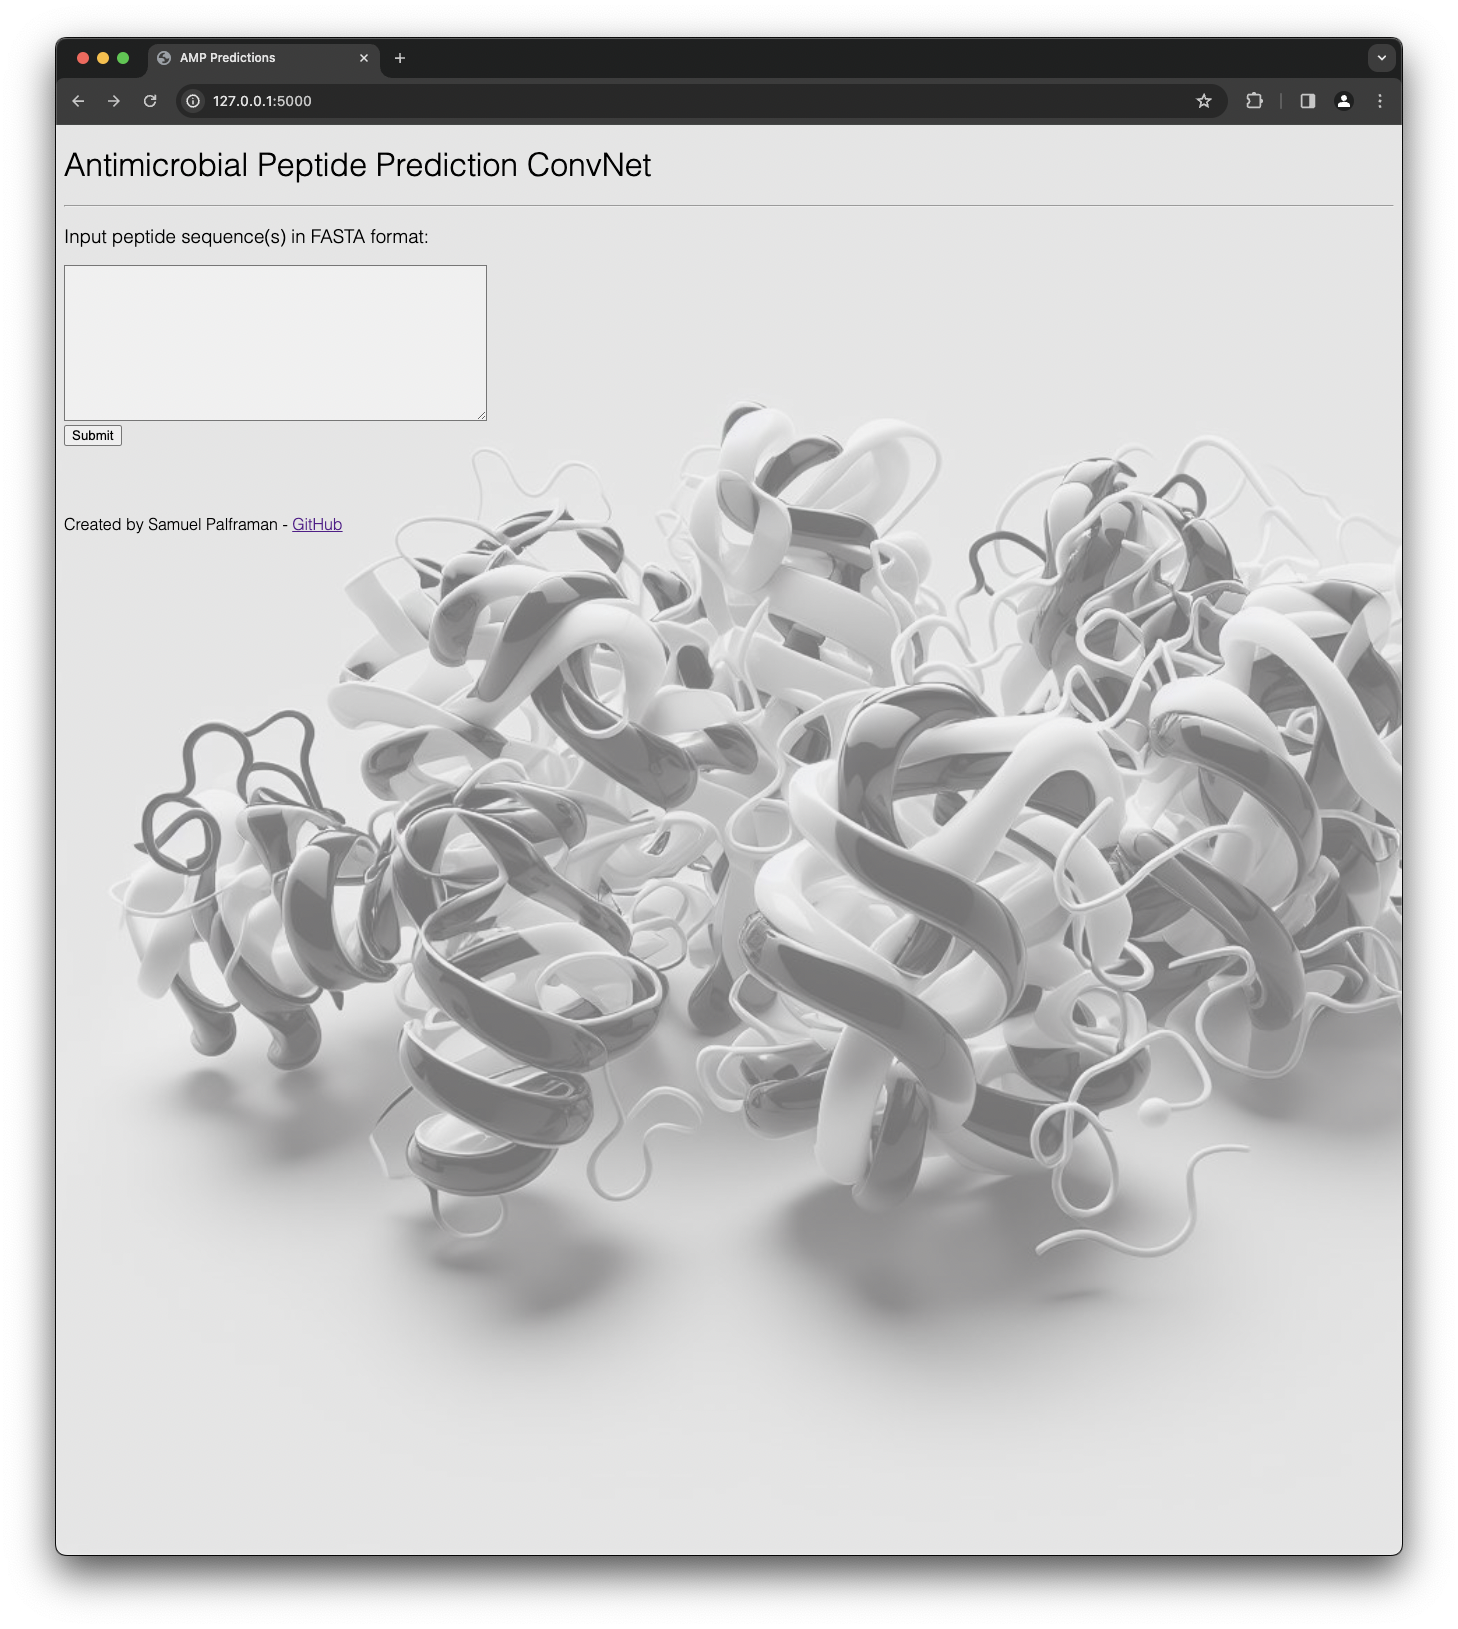
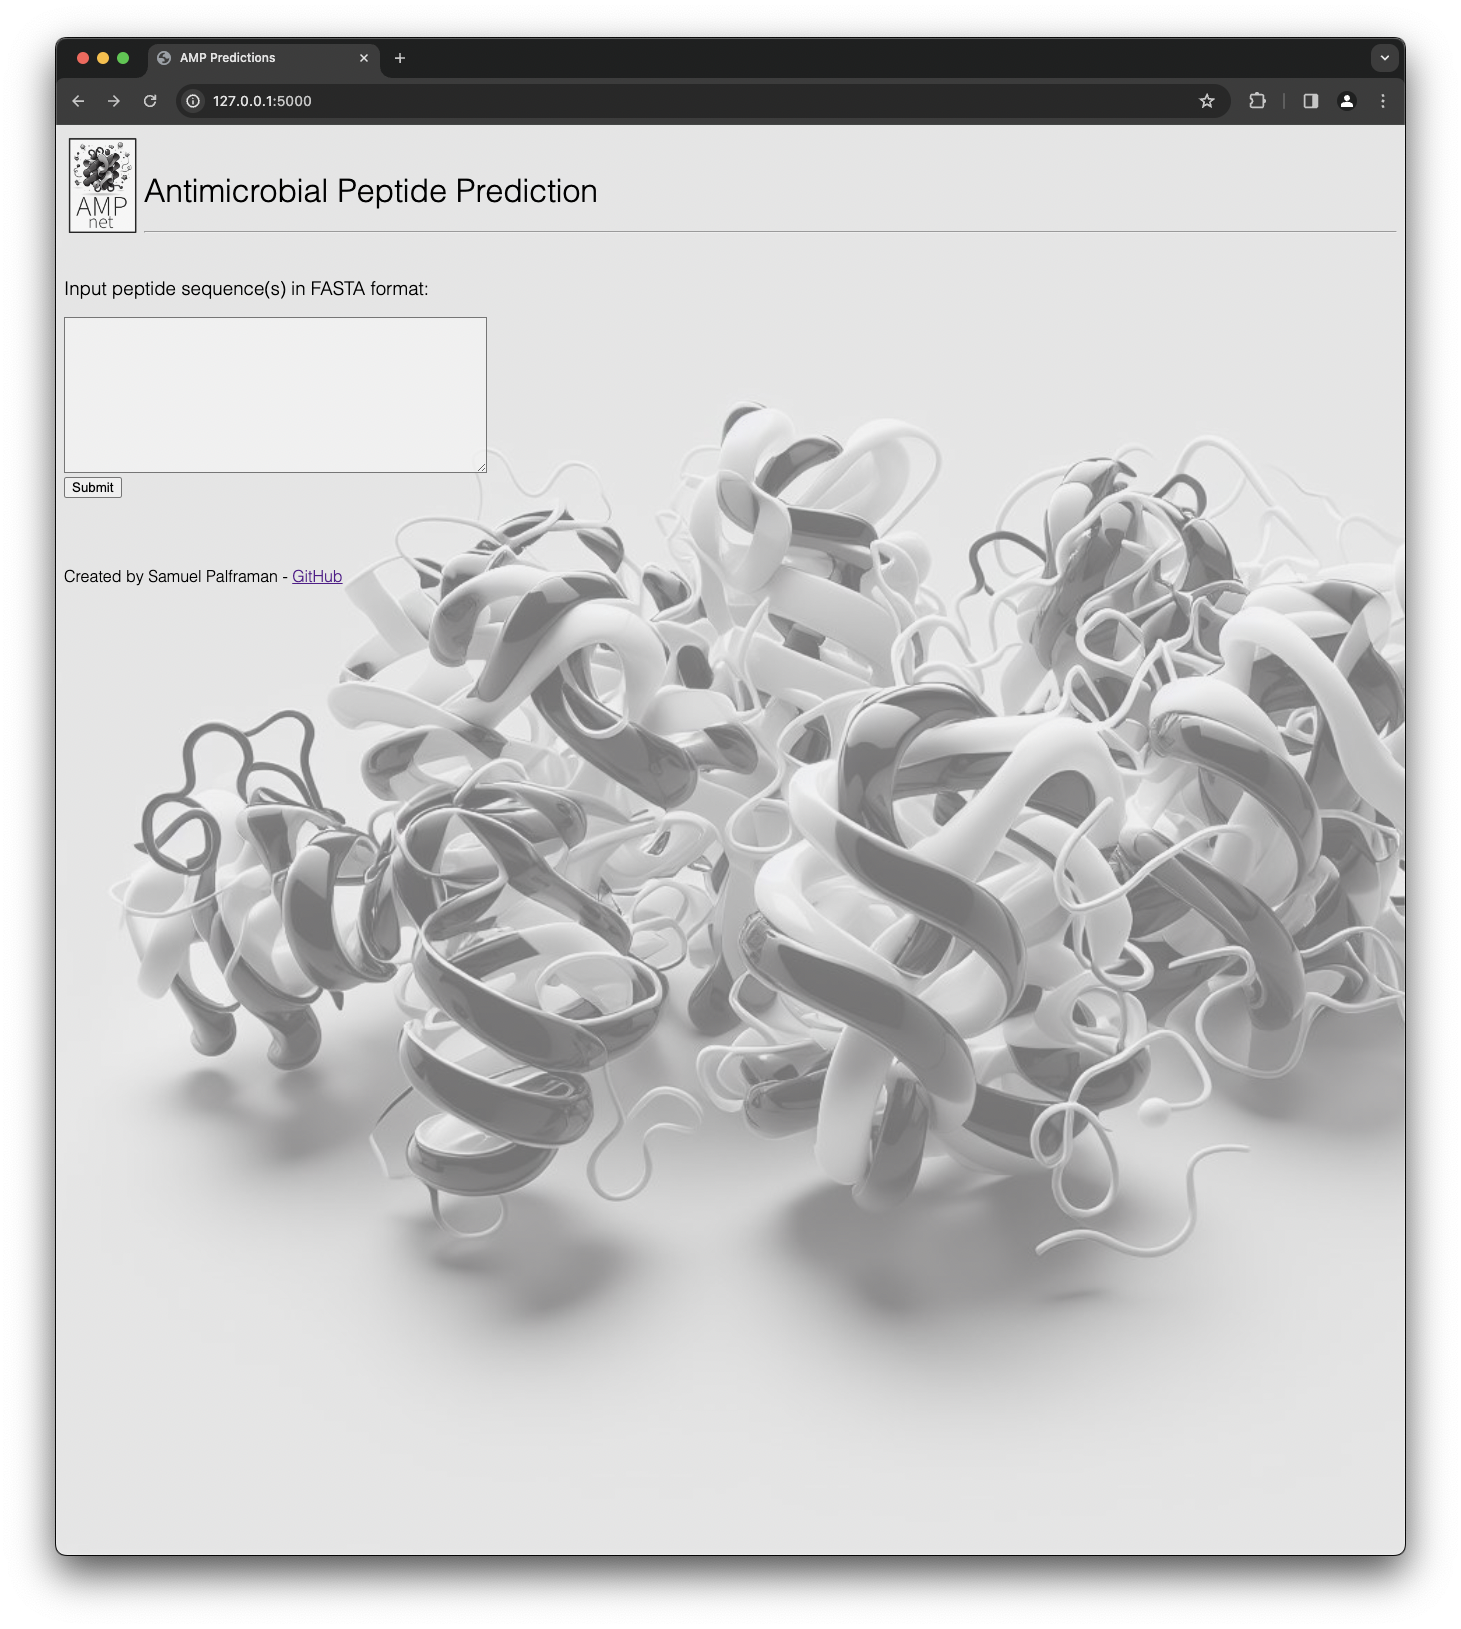
update project

diff --git a/templates/error.html b/templates/error.html
@@ -5,10 +5,34 @@
     <link rel="stylesheet" type="text/css" href="static/css/style.css">
 </head>
 <body>
-    <h1>An error occurred</h1>
+    <a href="/">
+        <div class="logo"></div>
+    </a>
+    <br>
+    <h1>AMPnet: An error occurred</h1>
     <hr>
     <p>{{ error_message }}</p>
     <p>Example:</p>
-    <div id="myBox">>vacAl00p<br>PEGGYKDKPNNTPSQSGAKNDKQESSQNNSNTQVINPP</div>
+    <div id="myBox">
+        >vacAl00p<br>PEGGYKDKPNNTPSQSGAKNDKQESSQNNSNTQVINPP<br>
+        >teAMP0021<br>ICLLVQARVRPRVC<br>
+        >teAMP0024<br>FLPLIAGVAANFLPKIFCLISKKC<br>
+        >teNEGATIVE0010<br>QQWPRDPAPIPP<br>
+        >teNEGATIVE0011<br>MQYISLNTTIITTTETTGYGAG<br>
+        >teAMP0025<br>DNGYLLDKYTGCKVWCVINNESCNSECKIRGGYYGYCYFWKLACFCQGARKSELWNYNTNKCNGKL<br>
+        >teNEGATIVE0007<br>AEVFKSEEGSVDFYGQLRPA<br>
+        >teAMP0028<br>ILGPVLGLVGNALGGLIKEI<br>
+        >teNEGATIVE0001<br>ADDKCEDSLRREIACTKCRDRVRTDDYFYECCTSESTFKKCQTMLHQ<br>
+        >teNEGATIVE0002<br>MDIITLGWVGVLSVFTLSIAFVVWGRHGM<br>
+        >teAMP0029<br>RRPPGWSPLR<br>
+        >teAMP0031<br>RFGRFLRKIRRFRPKVTITIQGSARFG<br>
+        >teAMP0032<br>LVPFIGRTLGGLLARF<br>
+        >teNEGATIVE0006<br>MTASMRLK<br>
+        >teNEGATIVE0012<br>AACYSSDCRVKCRAMGFSSGKCIDSKCKCYK<br>
+        >teAMP0072<br>EWKLPDLIINHITLTRRNCNKYRCG<br>
+        >teAMP0082<br>GFFAFIPKIISSPLFKTLLSAVGSALSSSGEQE<br>
+        >teNEGATIVE0013<br>GKITFYEDRNFQGRCYECSTDCPDLSPYFS<br>
+        >teNEGATIVE0004<br>AVKCIGWQETCNGKLPCCDGCVMCECNIMGQNCRCNHPKATSECES<br>
+    </div>
 </body>
 </html>

diff --git a/static/css/style.css b/static/css/style.css
@@ -12,7 +12,7 @@ body {
 /* Style heading */
 h1 {
     font-weight: 300;
-    text-align: left; 
+    text-align: left;
 }
 
 /* Style form container */
@@ -89,9 +89,20 @@ table.dataframe th {
 }
 
 #myBox {
-    width: 50%;
+    width:55%;
     background-color: #f2f2f2;
     border: 1px solid #ccc;
     padding: 10px;
     font-size: 16px;
   }
+
+  .logo {
+    width: 75px; /* Set the width of the div */
+    height: 100px; /* Set the height of the div */
+    background-image: url('ampnet_logo.png');
+    background-size: 100% 100%; /* This will scale the image to fit the div */
+    /*display: inline-block;*/
+    vertical-align: middle;
+    margin-right: 5px;
+    float: left;
+}

diff --git a/templates/index.html b/templates/index.html
@@ -7,8 +7,14 @@
     </script>
 </head>
 <body>
-    <h1>Antimicrobial Peptide Prediction ConvNet</h1>
+    <a href="/">
+        <div class="logo"></div>
+    </a>
+    <br>
+    <h1>Antimicrobial Peptide Prediction</h1>
+    <!--<h1>Antimicrobial Peptide Prediction ConvNet</h1>-->
     <hr>
+    <br>
     <form method="POST" action="/process_text">
         <h3>Input peptide sequence(s) in FASTA format:</h3>
         <textarea name="text_input" id="text_input" class="text_box" rows="10" cols="50"></textarea>

diff --git a/templates/result.html b/templates/result.html
@@ -5,7 +5,11 @@
     <link rel="stylesheet" type="text/css" href="static/css/style.css">
 </head>
 <body>
-    <h1>AMP Prediction Results</h1><hr>
+    <a href="/">
+        <div class="logo"></div>
+    </a>
+    <br>
+    <h1>AMPnet Prediction Results</h1><hr>
     <div class="table">
     <h3>Generated using a Deep Convolutional Neural Network with TensorFlow and Keras.</h3>
         <ul>

diff --git a/app.py b/app.py
@@ -8,7 +8,7 @@ import numpy as np
 import pandas as pd
 import tensorflow as tf
 import plotly.io as pio
-from Python import AMP_ConvNet_functions
+from Python import AMPnet_functions
 
 # Set Display Options to prevent Exponential Notation
 pd.set_option('display.float_format', '{:.2f}'.format)
@@ -37,25 +37,25 @@ def process_text():
         user_text = request.form['text_input']
         
         # Process FASTA input from User into Pandas DataFrame
-        user_text_df = AMP_ConvNet_functions.process_fasta(user_text)
+        user_text_df = AMPnet_functions.process_fasta(user_text)
 
         # Calculate Molecular Weight of Peptides
-        user_text_df['MW (kDa)'] = AMP_ConvNet_functions.calc_molecular_weight(user_text_df['Sequence'])
+        user_text_df['MW (kDa)'] = AMPnet_functions.calc_molecular_weight(user_text_df['Sequence'])
 
         # Calculate Isoelectric Point (pI) of Peptides
-        user_text_df['Isoelectric Point (pI)'] = AMP_ConvNet_functions.calculate_pI(user_text_df['Sequence'])
+        user_text_df['Isoelectric Point (pI)'] = AMPnet_functions.calculate_pI(user_text_df['Sequence'])
         
         # Calculate Hydrophobicity (Kyte-Doolittle Scores) for each Amino Acid
-        user_text_df['Hydrophobicity'] = user_text_df['Sequence'].apply(AMP_ConvNet_functions.list_hydrophobicities)
+        user_text_df['Hydrophobicity'] = user_text_df['Sequence'].apply(AMPnet_functions.list_hydrophobicities)
         
         # Creae One-Hot Encoded Sequence Column
-        user_text_df['One_Hot_Encoded'] = user_text_df['Sequence'].apply(AMP_ConvNet_functions.one_hot_encode)
+        user_text_df['One_Hot_Encoded'] = user_text_df['Sequence'].apply(AMPnet_functions.one_hot_encode)
         
         # Set Max Amino Acid Sequence Length
         max_length = 198
 
         # Pad 'One_Hot_Encoded' Column so that all Matrices are the same size (198 x 20)
-        user_text_df['Padded_One_Hot'] = user_text_df['One_Hot_Encoded'].apply(lambda arr_list: AMP_ConvNet_functions.pad_arrays(arr_list, max_length))
+        user_text_df['Padded_One_Hot'] = user_text_df['One_Hot_Encoded'].apply(lambda arr_list: AMPnet_functions.pad_arrays(arr_list, max_length))
 
         # Take Values for TensorFlow CNN Model
         user_text_sequences = user_text_df['Padded_One_Hot'].values
@@ -84,7 +84,7 @@ def process_text():
         print(results_df)
         
         # Plot Bubble Chart
-        bubble_chart = AMP_ConvNet_functions.create_bubble_chart(results_df)
+        bubble_chart = AMPnet_functions.create_bubble_chart(results_df)
         
         # Create Plotly Bubble Chart for HTML
         chart_div = pio.to_html(bubble_chart, full_html=False)

diff --git a/README.md b/README.md
@@ -1,10 +1,10 @@
-# Antimicrobial Peptide Prediction
+# AMPnet: Antimicrobial Peptide Prediction
 TensorFlow and Keras Deep Convolutional Neural Network (ConvNet) that identifies Antimicrobial Peptides (AMPs) based on Amino Acid Sequences.
 
 Created and submitted as final project for Monash University Data Analytics Boot Camp (November 2023). 
 
 
-![amp_cnn](Resources/Images/convnet_banner.jpg)
+![amp_cnn](Resources/Images/convnet_banner_logo.png)
 
 ## Preface
 
@@ -28,28 +28,28 @@ This project uses a Deep Convolutional Neural Network Model to classify peptides
 
 1. Download Repository.
 2. Using Mac/Linux Terminal or Windows Command Prompt:
-   - Change working directory to newly dow Repository folder (`antimicrobial-neural-network-main`.
+   - Change working directory to newly downloaded Repository folder (`antimicrobial-neural-network-main`).
    - Run `app.py` file.
 3. Open Browser and navigate to: `http://127.0.0.1:5000/`
 4. Input FASTA amino acid sequence.
 
 ## General info
 
-### AMP_ConvNet_data_compilation.ipynb
+### AMPnet_data_compilation.ipynb
 
 - Reads in `FASTA` files and converts data to Python `Pandas` DataFrames using `Biopython` library.
 - Creates new `Anti_Microbial` Column for each DataFrame and assigns `1` for AMPs and `0` for Non-AMPs.
-- Concatenates all Training and Test DataFrames into `peptides_df` DataFrame to Train and Test the AMP ConvNet Model.
+- Concatenates all Training and Test DataFrames into `peptides_df` DataFrame to Train and Test the AMPnet Model.
 - Creates Validation DataFrame from separate and independent datasets for an extra Validation step. 
 - Creates new `Sequence_Length` Column and calculates the number of amino acid residues of each peptide.
 - Calculates Kyte-Doolittle scores for each amino acid in each peptide sequence and appends data as new Column (`KD_Scores`) to DataFrame.
 - Exports DataFrames as `CSV` files:
   - `peptides_df` as `peptides.csv` for Training and Testing
-  - `validation_df` as `validation.csv` for additional ConvNet Model Validation.
+  - `validation_df` as `validation.csv` for additional AMPnet Model Validation.
   - `validation_positive.csv` and `validation_negative.csv` files were also generated to facilitate additional Validations.
 
 
-### AMP_ConvNet_deep_learning.ipynb
+### AMPnet_deep_learning.ipynb
 
 - `One-Hot-Encodes` amino acid sequences into 2D Matrix of binary values to facilitate Convolutional Neural Network modelling.
 
@@ -81,7 +81,7 @@ This project uses a Deep Convolutional Neural Network Model to classify peptides
 
 - Test Accuracy: `93.69 %` / Test Loss: `0.18`
 
-### AMP_ConvNet_deep_learning_validation.ipynb
+### AMPnet_deep_learning_validation.ipynb
 
 - Reads in `CSV` files as Pandas DataFrames.
 
@@ -91,7 +91,7 @@ This project uses a Deep Convolutional Neural Network Model to classify peptides
 
 - Converts input data to `Numpy Arrays`.
 
-- Loads Trained ConvNet TensorFlow and Keras Model.
+- Loads Trained AMPnet TensorFlow and Keras Model.
 
 - Makes Predictions on Validation datasets.
 
@@ -101,13 +101,13 @@ This project uses a Deep Convolutional Neural Network Model to classify peptides
 
 - Visualises Validation dataset that contained discrete positive (AMP) and negative (Non-AMP) sequences.
 
-- **Putative and Confirmed AMP / Non-AMPs predicted by AMP ConvNet**:
+- **Putative and Confirmed AMP / Non-AMPs predicted by AMPnet**:
 
   *score > 0.5 = AMP | score < 0.5 = Non-AMP*
   
   ![validation_charts](Resources/Images/validation_5_epochs_&_dropout.png)
 
-### AMP_ConvNet_functions.py
+### AMPnet_functions.py
 
 - Defines **Functions** called in Python Flask file (`app.py`):
   - `process_fasta(user_input)`: parses FASTA Input from user and converts it to Pandas DataFrame.
@@ -145,7 +145,7 @@ This project uses a Deep Convolutional Neural Network Model to classify peptides
 
 - Contains custom formatting for `index.html`, `result.html` and `error.html`.
 
-### AMP_ConvNet_model_summary
+### AMPnet_model_summary
 
 - Summarises model architecture.
 - Details optimisations made to model.
@@ -158,7 +158,7 @@ This project uses a Deep Convolutional Neural Network Model to classify peptides
 
 ### HDF5_files Folder
 
-- Contains the trained `convolutional_nn_1.h5` ConvNet Model File.
+- Contains the trained `convolutional_nn_1.h5` AMPnet Model File.
 
 ### static Folder
 
@@ -199,7 +199,7 @@ Project created and run using:
 ## Code example
 
 ```python
-## Code Snippet from AMP_ConvNet_deep_learning.ipynb
+## Code Snippet from AMPnet_deep_learning.ipynb
 #################################################
 
 # Build Convolutional Neural Network
@@ -241,17 +241,14 @@ model_fit = model.fit(X_train, y_train, epochs=5, validation_data=(X_test, y_tes
 ```
 anti-microbial-neural-network
 │
-├── AMP_ConvNet_model_summary.md
+├── AMPnet_model_summary.md
 ├── HDF5_files
 │   └── convolutional_nn_1.h5
 ├── Python
-│   ├── AMP_ConvNet_data_compilation.ipynb
-│   ├── AMP_ConvNet_deep_learning.ipynb
-│   ├── AMP_ConvNet_deep_learning_validation.ipynb
-│   ├── AMP_ConvNet_functions.py
-│   └── __pycache__
-│       ├── AMP_ConvNet_functions.cpython-310.pyc
-│       └── AMP_functions.cpython-310.pyc
+│   ├── AMPnet_data_compilation.ipynb
+│   ├── AMPnet_deep_learning.ipynb
+│   ├── AMPnet_deep_learning_validation.ipynb
+│   └── AMPnet_functions.py      
 ├── README.md
 ├── Resources
 │   ├── AMPlify_AMP_test_common.fa
@@ -259,11 +256,13 @@ anti-microbial-neural-network
 │   ├── Images
 │   │   ├── AMP_CNN_LeNet.png
 │   │   ├── AMP_CNN_structure.png
+│   │   ├── ampnet_logo.png
+│   │   ├── classification_report.png
+│   │   ├── confusion_matrix.png
 │   │   ├── convnet_banner.jpg
-│   │   ├── convnet_banner_2.png
-│   │   ├── convnet_banner_3.png
-│   │   ├── convnet_banner_4.png
+│   │   ├── convnet_banner_logo.png
 │   │   ├── index_screenshot.png
+│   │   ├── model_structure.png
 │   │   ├── result_screenshot.png
 │   │   ├── training_10_epochs.png
 │   │   ├── training_5_epochs_&_dropout.png
@@ -281,14 +280,13 @@ anti-microbial-neural-network
 ├── app.py
 ├── static
 │   └── css
+│       ├── ampnet_logo.png
 │       ├── b_and_white_protein.png
 │       └── style.css
 └── templates
     ├── error.html
     ├── index.html
     └── result.html
-
-9 directories, 39 files
 ```
 
 ## References
